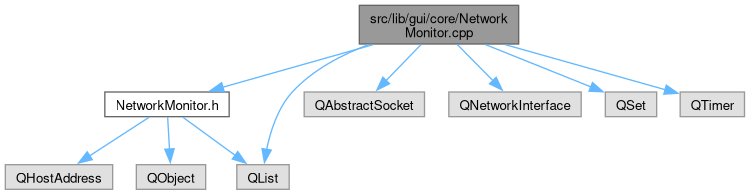
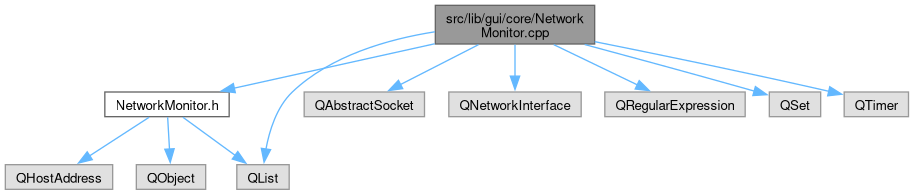
Deploying to gh-pages from @ dandycheung/deskflow@71929e8332935310d17e74720d778e57654250e5 🚀

Changed region(s): [[0.0, 0.0, 1.0, 0.9846], [0.4907, 0.4, 0.5213, 0.4615]]

diff --git a/NetworkMonitor_8h_source.html b/NetworkMonitor_8h_source.html
@@ -124,14 +124,14 @@ $(function(){initNavTree('NetworkMonitor_8h_source.html','',''); });
 <div class="line"><a id="l00047" name="l00047"></a><span class="lineno">   47</span>  <span class="keywordtype">void</span> <a class="code hl_function" href="classdeskflow_1_1gui_1_1NetworkMonitor.html#a60e7fd9af440e7b9d6f5563c9c82e9d6">stopMonitoring</a>();</div>
 <div class="line"><a id="l00048" name="l00048"></a><span class="lineno">   48</span></div>
 <div class="line"><a id="l00053" name="l00053"></a><span class="lineno">   53</span>  QStringList <a class="code hl_function" href="classdeskflow_1_1gui_1_1NetworkMonitor.html#aa5f6d6e7a465766256ff667c57e57d22">getAvailableIPv4Addresses</a>() <span class="keyword">const</span>;</div>
-<div class="line"><a id="l00054" name="l00054"></a><span class="lineno">   54</span> </div>
-<div class="line"><a id="l00055" name="l00055"></a><span class="lineno">   55</span>Q_SIGNALS:</div>
-<div class="line"><a id="l00060" name="l00060"></a><span class="lineno"><a class="line" href="classdeskflow_1_1gui_1_1NetworkMonitor.html#ad4663600ff5a3e9f822cb2345043d052">   60</a></span>  <span class="keywordtype">void</span> <a class="code hl_signal" href="classdeskflow_1_1gui_1_1NetworkMonitor.html#ad4663600ff5a3e9f822cb2345043d052">ipAddressesChanged</a>(<span class="keyword">const</span> QStringList &amp;addresses);</div>
+<div class="line"><a id="l00054" name="l00054"></a><span class="lineno">   54</span></div>
+<div class="line"><a id="l00060" name="l00060"></a><span class="lineno">   60</span>  <span class="keyword">static</span> <span class="keywordtype">bool</span> <a class="code hl_function" href="classdeskflow_1_1gui_1_1NetworkMonitor.html#a59f6fe6aab8944a0ca0a735aca627aee">isVirtualInterface</a>(<span class="keyword">const</span> QString &amp;interfaceName);</div>
 <div class="line"><a id="l00061" name="l00061"></a><span class="lineno">   61</span> </div>
-<div class="line"><a id="l00062" name="l00062"></a><span class="lineno">   62</span><span class="keyword">private</span>:</div>
-<div class="line"><a id="l00063" name="l00063"></a><span class="lineno">   63</span>  <span class="keywordtype">void</span> setIpAddresses(<span class="keyword">const</span> QStringList &amp;newAddresses);</div>
-<div class="line"><a id="l00064" name="l00064"></a><span class="lineno">   64</span></div>
-<div class="line"><a id="l00070" name="l00070"></a><span class="lineno">   70</span>  <span class="keywordtype">bool</span> isVirtualInterface(<span class="keyword">const</span> QString &amp;interfaceName) <span class="keyword">const</span>;</div>
+<div class="line"><a id="l00062" name="l00062"></a><span class="lineno">   62</span>Q_SIGNALS:</div>
+<div class="line"><a id="l00067" name="l00067"></a><span class="lineno"><a class="line" href="classdeskflow_1_1gui_1_1NetworkMonitor.html#ad4663600ff5a3e9f822cb2345043d052">   67</a></span>  <span class="keywordtype">void</span> <a class="code hl_signal" href="classdeskflow_1_1gui_1_1NetworkMonitor.html#ad4663600ff5a3e9f822cb2345043d052">ipAddressesChanged</a>(<span class="keyword">const</span> QStringList &amp;addresses);</div>
+<div class="line"><a id="l00068" name="l00068"></a><span class="lineno">   68</span> </div>
+<div class="line"><a id="l00069" name="l00069"></a><span class="lineno">   69</span><span class="keyword">private</span>:</div>
+<div class="line"><a id="l00070" name="l00070"></a><span class="lineno">   70</span>  <span class="keywordtype">void</span> setIpAddresses(<span class="keyword">const</span> QStringList &amp;newAddresses);</div>
 <div class="line"><a id="l00071" name="l00071"></a><span class="lineno">   71</span></div>
 <div class="line"><a id="l00075" name="l00075"></a><span class="lineno">   75</span>  <span class="keywordtype">void</span> updateNetworkState();</div>
 <div class="line"><a id="l00076" name="l00076"></a><span class="lineno">   76</span> </div>
@@ -143,10 +143,11 @@ $(function(){initNavTree('NetworkMonitor_8h_source.html','',''); });
 <div class="line"><a id="l00081" name="l00081"></a><span class="lineno">   81</span> </div>
 <div class="line"><a id="l00082" name="l00082"></a><span class="lineno">   82</span>} <span class="comment">// namespace deskflow::gui</span></div>
 <div class="ttc" id="aclassdeskflow_1_1gui_1_1NetworkMonitor_html_a3ed515cd88c91324c260ff2dac075c68"><div class="ttname"><a href="classdeskflow_1_1gui_1_1NetworkMonitor.html#a3ed515cd88c91324c260ff2dac075c68">deskflow::gui::NetworkMonitor::~NetworkMonitor</a></div><div class="ttdeci">~NetworkMonitor() override=default</div><div class="ttdoc">Destroy the NetworkMonitor object.</div></div>
-<div class="ttc" id="aclassdeskflow_1_1gui_1_1NetworkMonitor_html_a60e7fd9af440e7b9d6f5563c9c82e9d6"><div class="ttname"><a href="classdeskflow_1_1gui_1_1NetworkMonitor.html#a60e7fd9af440e7b9d6f5563c9c82e9d6">deskflow::gui::NetworkMonitor::stopMonitoring</a></div><div class="ttdeci">void stopMonitoring()</div><div class="ttdoc">Stop network monitoring.</div><div class="ttdef"><b>Definition</b> NetworkMonitor.cpp:56</div></div>
-<div class="ttc" id="aclassdeskflow_1_1gui_1_1NetworkMonitor_html_a6385ceb106fbe5394c55cd2336adc216"><div class="ttname"><a href="classdeskflow_1_1gui_1_1NetworkMonitor.html#a6385ceb106fbe5394c55cd2336adc216">deskflow::gui::NetworkMonitor::startMonitoring</a></div><div class="ttdeci">void startMonitoring(int intervalMs=3000)</div><div class="ttdoc">Start network monitoring.</div><div class="ttdef"><b>Definition</b> NetworkMonitor.cpp:44</div></div>
-<div class="ttc" id="aclassdeskflow_1_1gui_1_1NetworkMonitor_html_a9124f9fbc3fff0faa038c281688dd57a"><div class="ttname"><a href="classdeskflow_1_1gui_1_1NetworkMonitor.html#a9124f9fbc3fff0faa038c281688dd57a">deskflow::gui::NetworkMonitor::NetworkMonitor</a></div><div class="ttdeci">NetworkMonitor(QObject *parent=nullptr)</div><div class="ttdoc">Construct a new NetworkMonitor object.</div><div class="ttdef"><b>Definition</b> NetworkMonitor.cpp:39</div></div>
-<div class="ttc" id="aclassdeskflow_1_1gui_1_1NetworkMonitor_html_aa5f6d6e7a465766256ff667c57e57d22"><div class="ttname"><a href="classdeskflow_1_1gui_1_1NetworkMonitor.html#aa5f6d6e7a465766256ff667c57e57d22">deskflow::gui::NetworkMonitor::getAvailableIPv4Addresses</a></div><div class="ttdeci">QStringList getAvailableIPv4Addresses() const</div><div class="ttdoc">Get list of all available IPv4 addresses (excluding local and link-local addresses).</div><div class="ttdef"><b>Definition</b> NetworkMonitor.cpp:66</div></div>
+<div class="ttc" id="aclassdeskflow_1_1gui_1_1NetworkMonitor_html_a59f6fe6aab8944a0ca0a735aca627aee"><div class="ttname"><a href="classdeskflow_1_1gui_1_1NetworkMonitor.html#a59f6fe6aab8944a0ca0a735aca627aee">deskflow::gui::NetworkMonitor::isVirtualInterface</a></div><div class="ttdeci">static bool isVirtualInterface(const QString &amp;interfaceName)</div><div class="ttdoc">Check if a network interface is virtual.</div><div class="ttdef"><b>Definition</b> NetworkMonitor.cpp:18</div></div>
+<div class="ttc" id="aclassdeskflow_1_1gui_1_1NetworkMonitor_html_a60e7fd9af440e7b9d6f5563c9c82e9d6"><div class="ttname"><a href="classdeskflow_1_1gui_1_1NetworkMonitor.html#a60e7fd9af440e7b9d6f5563c9c82e9d6">deskflow::gui::NetworkMonitor::stopMonitoring</a></div><div class="ttdeci">void stopMonitoring()</div><div class="ttdoc">Stop network monitoring.</div><div class="ttdef"><b>Definition</b> NetworkMonitor.cpp:45</div></div>
+<div class="ttc" id="aclassdeskflow_1_1gui_1_1NetworkMonitor_html_a6385ceb106fbe5394c55cd2336adc216"><div class="ttname"><a href="classdeskflow_1_1gui_1_1NetworkMonitor.html#a6385ceb106fbe5394c55cd2336adc216">deskflow::gui::NetworkMonitor::startMonitoring</a></div><div class="ttdeci">void startMonitoring(int intervalMs=3000)</div><div class="ttdoc">Start network monitoring.</div><div class="ttdef"><b>Definition</b> NetworkMonitor.cpp:33</div></div>
+<div class="ttc" id="aclassdeskflow_1_1gui_1_1NetworkMonitor_html_a9124f9fbc3fff0faa038c281688dd57a"><div class="ttname"><a href="classdeskflow_1_1gui_1_1NetworkMonitor.html#a9124f9fbc3fff0faa038c281688dd57a">deskflow::gui::NetworkMonitor::NetworkMonitor</a></div><div class="ttdeci">NetworkMonitor(QObject *parent=nullptr)</div><div class="ttdoc">Construct a new NetworkMonitor object.</div><div class="ttdef"><b>Definition</b> NetworkMonitor.cpp:28</div></div>
+<div class="ttc" id="aclassdeskflow_1_1gui_1_1NetworkMonitor_html_aa5f6d6e7a465766256ff667c57e57d22"><div class="ttname"><a href="classdeskflow_1_1gui_1_1NetworkMonitor.html#aa5f6d6e7a465766256ff667c57e57d22">deskflow::gui::NetworkMonitor::getAvailableIPv4Addresses</a></div><div class="ttdeci">QStringList getAvailableIPv4Addresses() const</div><div class="ttdoc">Get list of all available IPv4 addresses (excluding local and link-local addresses).</div><div class="ttdef"><b>Definition</b> NetworkMonitor.cpp:55</div></div>
 <div class="ttc" id="aclassdeskflow_1_1gui_1_1NetworkMonitor_html_ad4663600ff5a3e9f822cb2345043d052"><div class="ttname"><a href="classdeskflow_1_1gui_1_1NetworkMonitor.html#ad4663600ff5a3e9f822cb2345043d052">deskflow::gui::NetworkMonitor::ipAddressesChanged</a></div><div class="ttdeci">void ipAddressesChanged(const QStringList &amp;addresses)</div><div class="ttdoc">Emitted when IP addresses change.</div></div>
 <div class="ttc" id="anamespacedeskflow_1_1gui_html"><div class="ttname"><a href="namespacedeskflow_1_1gui.html">deskflow::gui</a></div><div class="ttdef"><b>Definition</b> IServerConfig.h:14</div></div>
 </div><!-- fragment --></div><!-- contents -->

diff --git a/search/all_b.js b/search/all_b.js
@@ -195,12 +195,13 @@ var searchData=
   ['isutf8_192',['isUTF8',['../classUnicode.html#a318adabcf876bf85a933412df0732c97',1,'Unicode']]],
   ['isvalid_193',['isValid',['../structFingerprint.html#a656f619bb76ccf6905e7a94a128557dc',1,'Fingerprint::isValid()'],['../classNetworkAddress.html#a2882138c5f2f36e413d90aee9b5f9bef',1,'NetworkAddress::isValid()'],['../classIOSXKeyResource.html#a58823379c0a3c7e6a307d0c937ca357f',1,'IOSXKeyResource::isValid()'],['../classOSXUchrKeyResource.html#a7fdc80f70d3f9fa3524f9c7ba5832304',1,'OSXUchrKeyResource::isValid()']]],
   ['isvalidscreenname_194',['isValidScreenName',['../classdeskflow_1_1server_1_1Config.html#af9e192946df0b469b826fec417cb2dfe',1,'deskflow::server::Config']]],
-  ['iswayland_195',['isWayland',['../namespacedeskflow_1_1platform.html#a6cc5995e010e4add146caf44c544d362',1,'deskflow::platform']]],
-  ['iswindows_196',['isWindows',['../namespacedeskflow_1_1platform.html#ac60e44b592386bef8068211fd84bb515',1,'deskflow::platform']]],
-  ['iswritable_197',['isWritable',['../classQSettingsProxy.html#a6735b3a2eda9ddff113992cf1845708a',1,'QSettingsProxy::isWritable()'],['../classSettings.html#acc77a634afaed3905e6545630c71d5f2',1,'Settings::isWritable()'],['../classISocketMultiplexerJob.html#adea7e7721312a1bb7147e12922ee1be5',1,'ISocketMultiplexerJob::isWritable()'],['../classTCPSocket.html#ae24084f5bf3fd93f375533359b1aa93c',1,'TCPSocket::isWritable()'],['../classTSocketMultiplexerMethodJob.html#a1086333f93e3893cd662402268c06f5e',1,'TSocketMultiplexerMethodJob::isWritable()']]],
-  ['item_198',['Item',['../classXWindowsClipboard.html#ab045f67769edfb0b2e262cc5cab82cf3a7d74f3b92b19da5e606d737d339a9679',1,'XWindowsClipboard']]],
-  ['iterator_199',['iterator',['../classPriorityQueue.html#a5bafced7aaea079a6df66c54068fa5f6',1,'PriorityQueue']]],
-  ['iterator_5fcategory_200',['iterator_category',['../structstd_1_1iterator__traits_3_01deskflow_1_1server_1_1Config_01_4.html#ac5274c8b1f0413f89a626a54abe5d926',1,'std::iterator_traits&lt; deskflow::server::Config &gt;']]],
-  ['iterator_5ftraits_3c_20deskflow_3a_3aserver_3a_3aconfig_20_3e_201',['iterator_traits&lt; deskflow::server::Config &gt;',['../structstd_1_1iterator__traits_3_01deskflow_1_1server_1_1Config_01_4.html',1,'std']]],
-  ['ixwindowsclipboardconverter_202',['IXWindowsClipboardConverter',['../classIXWindowsClipboardConverter.html',1,'']]]
+  ['isvirtualinterface_195',['isVirtualInterface',['../classdeskflow_1_1gui_1_1NetworkMonitor.html#a59f6fe6aab8944a0ca0a735aca627aee',1,'deskflow::gui::NetworkMonitor']]],
+  ['iswayland_196',['isWayland',['../namespacedeskflow_1_1platform.html#a6cc5995e010e4add146caf44c544d362',1,'deskflow::platform']]],
+  ['iswindows_197',['isWindows',['../namespacedeskflow_1_1platform.html#ac60e44b592386bef8068211fd84bb515',1,'deskflow::platform']]],
+  ['iswritable_198',['isWritable',['../classQSettingsProxy.html#a6735b3a2eda9ddff113992cf1845708a',1,'QSettingsProxy::isWritable()'],['../classSettings.html#acc77a634afaed3905e6545630c71d5f2',1,'Settings::isWritable()'],['../classISocketMultiplexerJob.html#adea7e7721312a1bb7147e12922ee1be5',1,'ISocketMultiplexerJob::isWritable()'],['../classTCPSocket.html#ae24084f5bf3fd93f375533359b1aa93c',1,'TCPSocket::isWritable()'],['../classTSocketMultiplexerMethodJob.html#a1086333f93e3893cd662402268c06f5e',1,'TSocketMultiplexerMethodJob::isWritable()']]],
+  ['item_199',['Item',['../classXWindowsClipboard.html#ab045f67769edfb0b2e262cc5cab82cf3a7d74f3b92b19da5e606d737d339a9679',1,'XWindowsClipboard']]],
+  ['iterator_200',['iterator',['../classPriorityQueue.html#a5bafced7aaea079a6df66c54068fa5f6',1,'PriorityQueue']]],
+  ['iterator_5fcategory_201',['iterator_category',['../structstd_1_1iterator__traits_3_01deskflow_1_1server_1_1Config_01_4.html#ac5274c8b1f0413f89a626a54abe5d926',1,'std::iterator_traits&lt; deskflow::server::Config &gt;']]],
+  ['iterator_5ftraits_3c_20deskflow_3a_3aserver_3a_3aconfig_20_3e_202',['iterator_traits&lt; deskflow::server::Config &gt;',['../structstd_1_1iterator__traits_3_01deskflow_1_1server_1_1Config_01_4.html',1,'std']]],
+  ['ixwindowsclipboardconverter_203',['IXWindowsClipboardConverter',['../classIXWindowsClipboardConverter.html',1,'']]]
 ];

diff --git a/classdeskflow_1_1gui_1_1NetworkMonitor-members.html b/classdeskflow_1_1gui_1_1NetworkMonitor-members.html
@@ -99,10 +99,11 @@ $(function(){initNavTree('classdeskflow_1_1gui_1_1NetworkMonitor.html','',''); }
 <table class="directory">
   <tr class="even"><td class="entry"><a class="el" href="classdeskflow_1_1gui_1_1NetworkMonitor.html#aa5f6d6e7a465766256ff667c57e57d22">getAvailableIPv4Addresses</a>() const</td><td class="entry"><a class="el" href="classdeskflow_1_1gui_1_1NetworkMonitor.html">deskflow::gui::NetworkMonitor</a></td><td class="entry"></td></tr>
   <tr class="odd"><td class="entry"><a class="el" href="classdeskflow_1_1gui_1_1NetworkMonitor.html#ad4663600ff5a3e9f822cb2345043d052">ipAddressesChanged</a>(const QStringList &amp;addresses)</td><td class="entry"><a class="el" href="classdeskflow_1_1gui_1_1NetworkMonitor.html">deskflow::gui::NetworkMonitor</a></td><td class="entry"><span class="mlabel">signal</span></td></tr>
-  <tr class="even"><td class="entry"><a class="el" href="classdeskflow_1_1gui_1_1NetworkMonitor.html#a9124f9fbc3fff0faa038c281688dd57a">NetworkMonitor</a>(QObject *parent=nullptr)</td><td class="entry"><a class="el" href="classdeskflow_1_1gui_1_1NetworkMonitor.html">deskflow::gui::NetworkMonitor</a></td><td class="entry"><span class="mlabel">explicit</span></td></tr>
-  <tr class="odd"><td class="entry"><a class="el" href="classdeskflow_1_1gui_1_1NetworkMonitor.html#a6385ceb106fbe5394c55cd2336adc216">startMonitoring</a>(int intervalMs=3000)</td><td class="entry"><a class="el" href="classdeskflow_1_1gui_1_1NetworkMonitor.html">deskflow::gui::NetworkMonitor</a></td><td class="entry"></td></tr>
-  <tr class="even"><td class="entry"><a class="el" href="classdeskflow_1_1gui_1_1NetworkMonitor.html#a60e7fd9af440e7b9d6f5563c9c82e9d6">stopMonitoring</a>()</td><td class="entry"><a class="el" href="classdeskflow_1_1gui_1_1NetworkMonitor.html">deskflow::gui::NetworkMonitor</a></td><td class="entry"></td></tr>
-  <tr class="odd"><td class="entry"><a class="el" href="classdeskflow_1_1gui_1_1NetworkMonitor.html#a3ed515cd88c91324c260ff2dac075c68">~NetworkMonitor</a>() override=default</td><td class="entry"><a class="el" href="classdeskflow_1_1gui_1_1NetworkMonitor.html">deskflow::gui::NetworkMonitor</a></td><td class="entry"></td></tr>
+  <tr class="even"><td class="entry"><a class="el" href="classdeskflow_1_1gui_1_1NetworkMonitor.html#a59f6fe6aab8944a0ca0a735aca627aee">isVirtualInterface</a>(const QString &amp;interfaceName)</td><td class="entry"><a class="el" href="classdeskflow_1_1gui_1_1NetworkMonitor.html">deskflow::gui::NetworkMonitor</a></td><td class="entry"><span class="mlabel">static</span></td></tr>
+  <tr class="odd"><td class="entry"><a class="el" href="classdeskflow_1_1gui_1_1NetworkMonitor.html#a9124f9fbc3fff0faa038c281688dd57a">NetworkMonitor</a>(QObject *parent=nullptr)</td><td class="entry"><a class="el" href="classdeskflow_1_1gui_1_1NetworkMonitor.html">deskflow::gui::NetworkMonitor</a></td><td class="entry"><span class="mlabel">explicit</span></td></tr>
+  <tr class="even"><td class="entry"><a class="el" href="classdeskflow_1_1gui_1_1NetworkMonitor.html#a6385ceb106fbe5394c55cd2336adc216">startMonitoring</a>(int intervalMs=3000)</td><td class="entry"><a class="el" href="classdeskflow_1_1gui_1_1NetworkMonitor.html">deskflow::gui::NetworkMonitor</a></td><td class="entry"></td></tr>
+  <tr class="odd"><td class="entry"><a class="el" href="classdeskflow_1_1gui_1_1NetworkMonitor.html#a60e7fd9af440e7b9d6f5563c9c82e9d6">stopMonitoring</a>()</td><td class="entry"><a class="el" href="classdeskflow_1_1gui_1_1NetworkMonitor.html">deskflow::gui::NetworkMonitor</a></td><td class="entry"></td></tr>
+  <tr class="even"><td class="entry"><a class="el" href="classdeskflow_1_1gui_1_1NetworkMonitor.html#a3ed515cd88c91324c260ff2dac075c68">~NetworkMonitor</a>() override=default</td><td class="entry"><a class="el" href="classdeskflow_1_1gui_1_1NetworkMonitor.html">deskflow::gui::NetworkMonitor</a></td><td class="entry"></td></tr>
 </table></div><!-- contents -->
 </div><!-- doc-content -->
 </div><!-- container -->

diff --git a/classdeskflow_1_1gui_1_1NetworkMonitor.html b/classdeskflow_1_1gui_1_1NetworkMonitor.html
@@ -137,6 +137,11 @@ Public Member Functions</h2></td></tr>
 <tr class="memdesc:a60e7fd9af440e7b9d6f5563c9c82e9d6"><td class="mdescLeft">&#160;</td><td class="mdescRight">Stop network monitoring.  <br /></td></tr>
 <tr class="memitem:aa5f6d6e7a465766256ff667c57e57d22" id="r_aa5f6d6e7a465766256ff667c57e57d22"><td class="memItemLeft">QStringList&#160;</td><td class="memItemRight"><a class="el" href="#aa5f6d6e7a465766256ff667c57e57d22">getAvailableIPv4Addresses</a> () const</td></tr>
 <tr class="memdesc:aa5f6d6e7a465766256ff667c57e57d22"><td class="mdescLeft">&#160;</td><td class="mdescRight">Get list of all available IPv4 addresses (excluding local and link-local addresses).  <br /></td></tr>
+</table><table class="memberdecls">
+<tr class="heading"><td colspan="2"><h2 id="header-pub-static-methods" class="groupheader"><a id="pub-static-methods" name="pub-static-methods"></a>
+Static Public Member Functions</h2></td></tr>
+<tr class="memitem:a59f6fe6aab8944a0ca0a735aca627aee" id="r_a59f6fe6aab8944a0ca0a735aca627aee"><td class="memItemLeft">static bool&#160;</td><td class="memItemRight"><a class="el" href="#a59f6fe6aab8944a0ca0a735aca627aee">isVirtualInterface</a> (const QString &amp;interfaceName)</td></tr>
+<tr class="memdesc:a59f6fe6aab8944a0ca0a735aca627aee"><td class="mdescLeft">&#160;</td><td class="mdescRight">Check if a network interface is virtual.  <br /></td></tr>
 </table>
 <a name="details" id="details"></a><h2 id="header-details" class="groupheader">Detailed Description</h2>
 <div class="textblock"><p>Monitor network activity changes and provide IP address updates. </p>
@@ -253,6 +258,40 @@ Public Member Functions</h2></td></tr>
   </table>
   </dd>
 </dl>
+
+</div>
+</div>
+<a id="a59f6fe6aab8944a0ca0a735aca627aee" name="a59f6fe6aab8944a0ca0a735aca627aee"></a>
+<h2 class="memtitle"><span class="permalink"><a href="#a59f6fe6aab8944a0ca0a735aca627aee">&#9670;&#160;</a></span>isVirtualInterface()</h2>
+
+<div class="memitem">
+<div class="memproto">
+<table class="mlabels">
+  <tr>
+  <td class="mlabels-left">
+      <table class="memname">
+        <tr>
+          <td class="memname">bool deskflow::gui::NetworkMonitor::isVirtualInterface </td>
+          <td>(</td>
+          <td class="paramtype">const QString &amp;</td>          <td class="paramname"><span class="paramname"><em>interfaceName</em></span></td><td>)</td>
+          <td></td>
+        </tr>
+      </table>
+  </td>
+  <td class="mlabels-right">
+<span class="mlabels"><span class="mlabel static">static</span></span>  </td>
+  </tr>
+</table>
+</div><div class="memdoc">
+
+<p>Check if a network interface is virtual. </p>
+<dl class="params"><dt>Parameters</dt><dd>
+  <table class="params">
+    <tr><td class="paramname">interfaceName</td><td>Network interface name </td></tr>
+  </table>
+  </dd>
+</dl>
+<dl class="section return"><dt>Returns</dt><dd>true if it's a virtual interface </dd></dl>
 
 </div>
 </div>

diff --git a/NetworkMonitor_8cpp.html b/NetworkMonitor_8cpp.html
@@ -98,6 +98,7 @@ $(function(){initNavTree('NetworkMonitor_8cpp.html','',''); });
 <code>#include &lt;QAbstractSocket&gt;</code><br />
 <code>#include &lt;QList&gt;</code><br />
 <code>#include &lt;QNetworkInterface&gt;</code><br />
+<code>#include &lt;QRegularExpression&gt;</code><br />
 <code>#include &lt;QSet&gt;</code><br />
 <code>#include &lt;QTimer&gt;</code><br />
 </div><div class="textblock"><div class="dynheader">
@@ -105,19 +106,21 @@ Include dependency graph for NetworkMonitor.cpp:</div>
 <div class="dyncontent">
 <div class="center"><img src="NetworkMonitor_8cpp__incl.png" border="0" usemap="#asrc_2lib_2gui_2core_2NetworkMonitor_8cpp" loading="lazy" alt=""/></div>
 <map name="asrc_2lib_2gui_2core_2NetworkMonitor_8cpp" id="asrc_2lib_2gui_2core_2NetworkMonitor_8cpp">
-<area shape="rect" title=" " alt="" coords="359,5,519,44"/>
+<area shape="rect" title=" " alt="" coords="435,5,595,44"/>
 <area shape="rect" href="NetworkMonitor_8h.html" title=" " alt="" coords="105,92,229,117"/>
-<area shape="poly" title=" " alt="" coords="371,46,224,90,222,85,375,43"/>
+<area shape="poly" title=" " alt="" coords="433,45,235,91,233,86,437,42"/>
 <area shape="rect" title=" " alt="" coords="237,165,289,189"/>
-<area shape="poly" title=" " alt="" coords="371,43,329,66,294,94,278,121,269,152,265,148,273,119,290,90,327,62,366,46"/>
+<area shape="poly" title=" " alt="" coords="432,33,399,42,361,53,326,71,294,94,277,120,268,151,264,147,272,118,290,90,323,66,359,49,398,37,437,31"/>
 <area shape="rect" title=" " alt="" coords="304,92,424,117"/>
-<area shape="poly" title=" " alt="" coords="423,43,388,83,385,78,419,46"/>
+<area shape="poly" title=" " alt="" coords="481,44,402,87,400,82,476,46"/>
 <area shape="rect" title=" " alt="" coords="449,92,581,117"/>
-<area shape="poly" title=" " alt="" coords="458,42,496,81,490,80,457,47"/>
-<area shape="rect" title=" " alt="" coords="605,92,657,117"/>
-<area shape="poly" title=" " alt="" coords="486,42,594,87,588,87,485,47"/>
-<area shape="rect" title=" " alt="" coords="680,92,744,117"/>
-<area shape="poly" title=" " alt="" coords="505,42,668,89,663,90,505,47"/>
+<area shape="poly" title=" " alt="" coords="517,43,517,78,513,75,513,47"/>
+<area shape="rect" title=" " alt="" coords="605,92,745,117"/>
+<area shape="poly" title=" " alt="" coords="554,42,640,85,635,85,553,47"/>
+<area shape="rect" title=" " alt="" coords="769,92,821,117"/>
+<area shape="poly" title=" " alt="" coords="585,42,757,91,752,91,584,47"/>
+<area shape="rect" title=" " alt="" coords="844,92,908,117"/>
+<area shape="poly" title=" " alt="" coords="595,39,832,91,826,92,595,44"/>
 <area shape="rect" title=" " alt="" coords="5,165,113,189"/>
 <area shape="poly" title=" " alt="" coords="152,117,91,158,88,154,147,118"/>
 <area shape="poly" title=" " alt="" coords="184,115,238,155,233,156,182,120"/>

diff --git a/search/functions_9.js b/search/functions_9.js
@@ -96,7 +96,8 @@ var searchData=
   ['isutf8_93',['isUTF8',['../classUnicode.html#a318adabcf876bf85a933412df0732c97',1,'Unicode']]],
   ['isvalid_94',['isValid',['../structFingerprint.html#a656f619bb76ccf6905e7a94a128557dc',1,'Fingerprint::isValid()'],['../classNetworkAddress.html#a2882138c5f2f36e413d90aee9b5f9bef',1,'NetworkAddress::isValid()'],['../classIOSXKeyResource.html#a58823379c0a3c7e6a307d0c937ca357f',1,'IOSXKeyResource::isValid()'],['../classOSXUchrKeyResource.html#a7fdc80f70d3f9fa3524f9c7ba5832304',1,'OSXUchrKeyResource::isValid()']]],
   ['isvalidscreenname_95',['isValidScreenName',['../classdeskflow_1_1server_1_1Config.html#af9e192946df0b469b826fec417cb2dfe',1,'deskflow::server::Config']]],
-  ['iswayland_96',['isWayland',['../namespacedeskflow_1_1platform.html#a6cc5995e010e4add146caf44c544d362',1,'deskflow::platform']]],
-  ['iswindows_97',['isWindows',['../namespacedeskflow_1_1platform.html#ac60e44b592386bef8068211fd84bb515',1,'deskflow::platform']]],
-  ['iswritable_98',['isWritable',['../classQSettingsProxy.html#a6735b3a2eda9ddff113992cf1845708a',1,'QSettingsProxy::isWritable()'],['../classSettings.html#acc77a634afaed3905e6545630c71d5f2',1,'Settings::isWritable()'],['../classISocketMultiplexerJob.html#adea7e7721312a1bb7147e12922ee1be5',1,'ISocketMultiplexerJob::isWritable()'],['../classTCPSocket.html#ae24084f5bf3fd93f375533359b1aa93c',1,'TCPSocket::isWritable()'],['../classTSocketMultiplexerMethodJob.html#a1086333f93e3893cd662402268c06f5e',1,'TSocketMultiplexerMethodJob::isWritable()']]]
+  ['isvirtualinterface_96',['isVirtualInterface',['../classdeskflow_1_1gui_1_1NetworkMonitor.html#a59f6fe6aab8944a0ca0a735aca627aee',1,'deskflow::gui::NetworkMonitor']]],
+  ['iswayland_97',['isWayland',['../namespacedeskflow_1_1platform.html#a6cc5995e010e4add146caf44c544d362',1,'deskflow::platform']]],
+  ['iswindows_98',['isWindows',['../namespacedeskflow_1_1platform.html#ac60e44b592386bef8068211fd84bb515',1,'deskflow::platform']]],
+  ['iswritable_99',['isWritable',['../classQSettingsProxy.html#a6735b3a2eda9ddff113992cf1845708a',1,'QSettingsProxy::isWritable()'],['../classSettings.html#acc77a634afaed3905e6545630c71d5f2',1,'Settings::isWritable()'],['../classISocketMultiplexerJob.html#adea7e7721312a1bb7147e12922ee1be5',1,'ISocketMultiplexerJob::isWritable()'],['../classTCPSocket.html#ae24084f5bf3fd93f375533359b1aa93c',1,'TCPSocket::isWritable()'],['../classTSocketMultiplexerMethodJob.html#a1086333f93e3893cd662402268c06f5e',1,'TSocketMultiplexerMethodJob::isWritable()']]]
 ];

diff --git a/navtreeindex19.js b/navtreeindex19.js
@@ -43,10 +43,12 @@ var NAVTREEINDEX19 =
 "classdeskflow_1_1gui_1_1NetworkMonitor.html":[6,0,0,4,6],
 "classdeskflow_1_1gui_1_1NetworkMonitor.html#a3ed515cd88c91324c260ff2dac075c68":[5,0,0,5,8,1],
 "classdeskflow_1_1gui_1_1NetworkMonitor.html#a3ed515cd88c91324c260ff2dac075c68":[6,0,0,4,6,1],
-"classdeskflow_1_1gui_1_1NetworkMonitor.html#a60e7fd9af440e7b9d6f5563c9c82e9d6":[5,0,0,5,8,5],
-"classdeskflow_1_1gui_1_1NetworkMonitor.html#a60e7fd9af440e7b9d6f5563c9c82e9d6":[6,0,0,4,6,5],
-"classdeskflow_1_1gui_1_1NetworkMonitor.html#a6385ceb106fbe5394c55cd2336adc216":[5,0,0,5,8,4],
-"classdeskflow_1_1gui_1_1NetworkMonitor.html#a6385ceb106fbe5394c55cd2336adc216":[6,0,0,4,6,4],
+"classdeskflow_1_1gui_1_1NetworkMonitor.html#a59f6fe6aab8944a0ca0a735aca627aee":[5,0,0,5,8,4],
+"classdeskflow_1_1gui_1_1NetworkMonitor.html#a59f6fe6aab8944a0ca0a735aca627aee":[6,0,0,4,6,4],
+"classdeskflow_1_1gui_1_1NetworkMonitor.html#a60e7fd9af440e7b9d6f5563c9c82e9d6":[5,0,0,5,8,6],
+"classdeskflow_1_1gui_1_1NetworkMonitor.html#a60e7fd9af440e7b9d6f5563c9c82e9d6":[6,0,0,4,6,6],
+"classdeskflow_1_1gui_1_1NetworkMonitor.html#a6385ceb106fbe5394c55cd2336adc216":[5,0,0,5,8,5],
+"classdeskflow_1_1gui_1_1NetworkMonitor.html#a6385ceb106fbe5394c55cd2336adc216":[6,0,0,4,6,5],
 "classdeskflow_1_1gui_1_1NetworkMonitor.html#a9124f9fbc3fff0faa038c281688dd57a":[5,0,0,5,8,0],
 "classdeskflow_1_1gui_1_1NetworkMonitor.html#a9124f9fbc3fff0faa038c281688dd57a":[6,0,0,4,6,0],
 "classdeskflow_1_1gui_1_1NetworkMonitor.html#aa5f6d6e7a465766256ff667c57e57d22":[5,0,0,5,8,2],
@@ -247,7 +249,5 @@ var NAVTREEINDEX19 =
 "classdeskflow_1_1server_1_1Config.html#afaeac95072fceeeff1b2b0e327234ebe":[6,0,0,5,0,46],
 "classdeskflow_1_1server_1_1Config.html#afb04dc32eaa76da1b5a2c303b516c24e":[5,0,0,6,0,31],
 "classdeskflow_1_1server_1_1Config.html#afb04dc32eaa76da1b5a2c303b516c24e":[6,0,0,5,0,31],
-"classdeskflow_1_1server_1_1ConfigReadContext.html":[5,0,0,6,1],
-"classdeskflow_1_1server_1_1ConfigReadContext.html":[6,0,0,5,1],
-"classdeskflow_1_1server_1_1ConfigReadContext.html#a015b02335b17c35ccbb460687c2b9dea":[5,0,0,6,1,3]
+"classdeskflow_1_1server_1_1ConfigReadContext.html":[5,0,0,6,1]
 };

diff --git a/functions_i.html b/functions_i.html
@@ -181,6 +181,7 @@ $(function(){initNavTree('functions_i.html','',''); });
 <li>isUTF8()&#160;:&#160;<a class="el" href="classUnicode.html#a318adabcf876bf85a933412df0732c97">Unicode</a></li>
 <li>isValid()&#160;:&#160;<a class="el" href="structFingerprint.html#a656f619bb76ccf6905e7a94a128557dc">Fingerprint</a>, <a class="el" href="classIOSXKeyResource.html#a58823379c0a3c7e6a307d0c937ca357f">IOSXKeyResource</a>, <a class="el" href="classNetworkAddress.html#a2882138c5f2f36e413d90aee9b5f9bef">NetworkAddress</a>, <a class="el" href="classOSXUchrKeyResource.html#a7fdc80f70d3f9fa3524f9c7ba5832304">OSXUchrKeyResource</a></li>
 <li>isValidScreenName()&#160;:&#160;<a class="el" href="classdeskflow_1_1server_1_1Config.html#af9e192946df0b469b826fec417cb2dfe">deskflow::server::Config</a></li>
+<li>isVirtualInterface()&#160;:&#160;<a class="el" href="classdeskflow_1_1gui_1_1NetworkMonitor.html#a59f6fe6aab8944a0ca0a735aca627aee">deskflow::gui::NetworkMonitor</a></li>
 <li>isWritable()&#160;:&#160;<a class="el" href="classISocketMultiplexerJob.html#adea7e7721312a1bb7147e12922ee1be5">ISocketMultiplexerJob</a>, <a class="el" href="classQSettingsProxy.html#a6735b3a2eda9ddff113992cf1845708a">QSettingsProxy</a>, <a class="el" href="classSettings.html#acc77a634afaed3905e6545630c71d5f2">Settings</a>, <a class="el" href="classTCPSocket.html#ae24084f5bf3fd93f375533359b1aa93c">TCPSocket</a>, <a class="el" href="classTSocketMultiplexerMethodJob.html#a1086333f93e3893cd662402268c06f5e">TSocketMultiplexerMethodJob&lt; T &gt;</a></li>
 <li>iterator&#160;:&#160;<a class="el" href="classPriorityQueue.html#a5bafced7aaea079a6df66c54068fa5f6">PriorityQueue&lt; T, Container, Compare &gt;</a></li>
 <li>iterator_category&#160;:&#160;<a class="el" href="structstd_1_1iterator__traits_3_01deskflow_1_1server_1_1Config_01_4.html#ac5274c8b1f0413f89a626a54abe5d926">std::iterator_traits&lt; deskflow::server::Config &gt;</a></li>

diff --git a/functions_func_i.html b/functions_func_i.html
@@ -174,6 +174,7 @@ $(function(){initNavTree('functions_func_i.html','',''); });
 <li>isUTF8()&#160;:&#160;<a class="el" href="classUnicode.html#a318adabcf876bf85a933412df0732c97">Unicode</a></li>
 <li>isValid()&#160;:&#160;<a class="el" href="structFingerprint.html#a656f619bb76ccf6905e7a94a128557dc">Fingerprint</a>, <a class="el" href="classIOSXKeyResource.html#a58823379c0a3c7e6a307d0c937ca357f">IOSXKeyResource</a>, <a class="el" href="classNetworkAddress.html#a2882138c5f2f36e413d90aee9b5f9bef">NetworkAddress</a>, <a class="el" href="classOSXUchrKeyResource.html#a7fdc80f70d3f9fa3524f9c7ba5832304">OSXUchrKeyResource</a></li>
 <li>isValidScreenName()&#160;:&#160;<a class="el" href="classdeskflow_1_1server_1_1Config.html#af9e192946df0b469b826fec417cb2dfe">deskflow::server::Config</a></li>
+<li>isVirtualInterface()&#160;:&#160;<a class="el" href="classdeskflow_1_1gui_1_1NetworkMonitor.html#a59f6fe6aab8944a0ca0a735aca627aee">deskflow::gui::NetworkMonitor</a></li>
 <li>isWritable()&#160;:&#160;<a class="el" href="classISocketMultiplexerJob.html#adea7e7721312a1bb7147e12922ee1be5">ISocketMultiplexerJob</a>, <a class="el" href="classQSettingsProxy.html#a6735b3a2eda9ddff113992cf1845708a">QSettingsProxy</a>, <a class="el" href="classSettings.html#acc77a634afaed3905e6545630c71d5f2">Settings</a>, <a class="el" href="classTCPSocket.html#ae24084f5bf3fd93f375533359b1aa93c">TCPSocket</a>, <a class="el" href="classTSocketMultiplexerMethodJob.html#a1086333f93e3893cd662402268c06f5e">TSocketMultiplexerMethodJob&lt; T &gt;</a></li>
 </ul>
 </div><!-- contents -->

diff --git a/navtreeindex22.js b/navtreeindex22.js
@@ -1,5 +1,7 @@
 var NAVTREEINDEX22 =
 {
+"namespacedeskflow.html#a34787a880fd439e02383f336665d7bc2a6fe8d07fdc1c600919bbf677c067ede2":[5,0,0,18,56],
+"namespacedeskflow.html#a34787a880fd439e02383f336665d7bc2a731395388d62cd6067648dea2768653d":[5,0,0,18,43],
 "namespacedeskflow.html#a34787a880fd439e02383f336665d7bc2a786d0034ff93ad270bacde98d603b3e9":[5,0,0,18,42],
 "namespacedeskflow.html#a34787a880fd439e02383f336665d7bc2a793b6080c7b0badaa569b76f0988d139":[5,0,0,18,38],
 "namespacedeskflow.html#a34787a880fd439e02383f336665d7bc2a80f4b125846735ec3a6e99f6b9d68f0b":[5,0,0,18,36],
@@ -247,7 +249,5 @@ var NAVTREEINDEX22 =
 "structScrollRemainder.html":[6,0,199],
 "structScrollRemainder.html#a06a2eab3d5996e601896b38ea2649c15":[6,0,199,0],
 "structScrollRemainder.html#a62da684f437beaa23780cac83f027fa9":[6,0,199,1],
-"structSettings_1_1Client.html":[6,0,208,0],
-"structSettings_1_1Client.html#a50b1127b62ac5088157236dd298d623b":[6,0,208,0,1],
-"structSettings_1_1Client.html#a78bf4a3446a0f91fd8375d89ea79c869":[6,0,208,0,4]
+"structSettings_1_1Client.html":[6,0,208,0]
 };

diff --git a/navtreeindex21.js b/navtreeindex21.js
@@ -1,5 +1,7 @@
 var NAVTREEINDEX21 =
 {
+"functions_func_j.html":[6,3,1,10],
+"functions_func_k.html":[6,3,1,11],
 "functions_func_l.html":[6,3,1,12],
 "functions_func_m.html":[6,3,1,13],
 "functions_func_n.html":[6,3,1,14],
@@ -247,7 +249,5 @@ var NAVTREEINDEX21 =
 "namespacedeskflow.html#a34787a880fd439e02383f336665d7bc2a5c10b238cd32de63b15d003b782b081e":[5,0,0,18,6],
 "namespacedeskflow.html#a34787a880fd439e02383f336665d7bc2a60fcab4d750adf8fc79537e6e61769c8":[5,0,0,18,21],
 "namespacedeskflow.html#a34787a880fd439e02383f336665d7bc2a662eedb3d21ec748ac1199d4357c8bd5":[5,0,0,18,50],
-"namespacedeskflow.html#a34787a880fd439e02383f336665d7bc2a6ab94297a308225c53fd052a1d3e7477":[5,0,0,18,19],
-"namespacedeskflow.html#a34787a880fd439e02383f336665d7bc2a6fe8d07fdc1c600919bbf677c067ede2":[5,0,0,18,56],
-"namespacedeskflow.html#a34787a880fd439e02383f336665d7bc2a731395388d62cd6067648dea2768653d":[5,0,0,18,43]
+"namespacedeskflow.html#a34787a880fd439e02383f336665d7bc2a6ab94297a308225c53fd052a1d3e7477":[5,0,0,18,19]
 };

diff --git a/navtreedata.js b/navtreedata.js
@@ -147,10 +147,10 @@ var NAVTREEINDEX =
 "classXWindowsUtil.html#aa225a3a10a43d139294773550eb65840",
 "classdeskflow_1_1KeyMap.html#aef496d7565922670d636e590040eedef",
 "classdeskflow_1_1gui_1_1CoreProcess.html#adab780bcb932ba53c90fc6f6b1f25467",
-"classdeskflow_1_1server_1_1ConfigReadContext.html#a015b02335b17c35ccbb460687c2b9dea",
-"functions_func_l.html",
-"namespacedeskflow.html#a34787a880fd439e02383f336665d7bc2a786d0034ff93ad270bacde98d603b3e9",
-"structSettings_1_1Client.html#aa09822d6262ecd66e109aa7ab4f46d84"
+"classdeskflow_1_1server_1_1ConfigReadContext.html",
+"functions_func_j.html",
+"namespacedeskflow.html#a34787a880fd439e02383f336665d7bc2a6fe8d07fdc1c600919bbf677c067ede2",
+"structSettings_1_1Client.html#a50b1127b62ac5088157236dd298d623b"
 ];
 
 var SYNCONMSG = 'click to disable panel synchronization';
